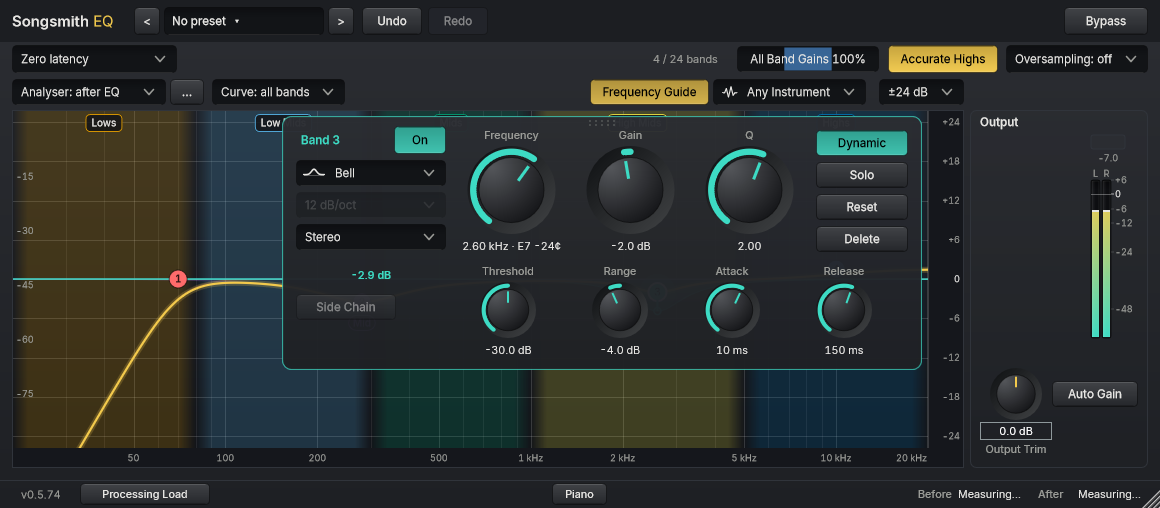
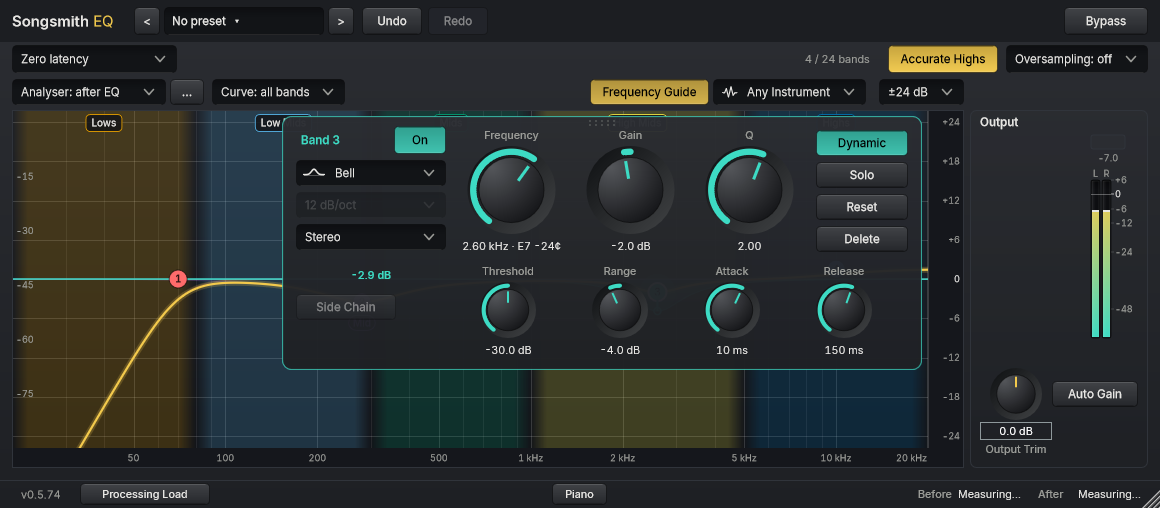
EQ: remove the Gain Scale control, Piano at the bottom middle everywhere (songsmithstudio#17)
The Gain Scale parameter stays so saved sessions sound the same.

Changed region(s): [[0.5586, 0.0886, 0.7759, 0.1476]]

diff --git a/eq/Tests/EQTests.cpp b/eq/Tests/EQTests.cpp
@@ -5134,7 +5134,7 @@ public:
             Songsmith::UI::Testing::checkGlobalBypass (*this, *ed, *p.apvts.getParameter (EQ::bypassId), "EQ at " + juce::String (s) + "x");
         }
 
-        beginTest ("Title bar reads name, preset, Undo, Redo, Bypass; Gain Scale stays reachable in the toolbox (SUI-18)");
+        beginTest ("Title bar reads name, preset, Undo, Redo, Bypass; the Gain Scale control is gone but a saved scale still shapes the sound (songsmithstudio#17)");
         for (float s : { 1.0f, 2.0f })
         {
             SongsmithEQAudioProcessor p;
@@ -5143,23 +5143,18 @@ public:
             auto ed = UiSizeTests::makeEditor (p, s, juce::roundToInt (1280 * s), juce::roundToInt (788 * s));
             Songsmith::UI::Testing::checkSuiteHeader (*this, *ed, context);
 
-            if (auto* eqEditor = dynamic_cast<SongsmithEQAudioProcessorEditor*> (ed.get()))
-            {
-                auto& scale = eqEditor->getScaleSlider();
-                expect (scale.isVisible() && scale.getY() > 42, context + ": the Scale control is out of the title bar and still visible");
-                expectWithinAbsoluteError (scale.getValue(), 150.0, 0.5, context + ": a saved non-default Gain Scale is kept, not reset to 100 %");
-                expectWithinAbsoluteError ((double) p.getGainScale(), 1.5, 0.01, context + ": and the sound still uses it");
+            // The parameter is never removed (sessions and automation keep their meaning), so a saved scale is still used.
+            expectWithinAbsoluteError ((double) p.getGainScale(), 1.5, 0.01, context + ": a saved non-default Gain Scale still shapes the sound");
+            expect (p.apvts.getParameter (EQ::gainScaleId) != nullptr, context + ": and the parameter still exists");
 
-                // EQ-41: the label says Gain Scale, typing works with or without the words, the help is plain.
-                expect (scale.getTextFromValue (100.0) == "All Band Gains 100%", context + ": reads All Band Gains 100%");
-                expect (scale.getTextFromValue (-100.0) == "All Band Gains -100%", context + ": negative end");
-                for (auto text : { "50", "50%", "All Band Gains 50%", "Gain Scale 50%" })
-                    expectWithinAbsoluteError (scale.getValueFromText (text), 50.0, 0.001, context + ": typing \"" + juce::String (text) + "\" sets 50");
-                expect (scale.getTooltip().startsWith ("All Band Gains: turns every band's boosts and cuts up or down together."), context + ": plain tooltip");
-                expect (scale.getTooltip().contains ("Double-click to return to 100%."), context + ": tooltip mentions reset");
-                const auto* editorBounds = ed.get();
-                expect (scale.getRight() <= editorBounds->getWidth() && scale.getWidth() > 60, context + ": fits inside the editor");
-            }
+            // No control in the window sets it: nothing in the editor is called Gain Scale or All Band Gains.
+            std::function<void (juce::Component&)> check = [&] (juce::Component& c)
+            {
+                expect (! c.getTitle().containsIgnoreCase ("gain scale") && ! c.getTitle().containsIgnoreCase ("all band gains"), context + ": no control named for it (" + c.getTitle() + ")");
+                for (auto* child : c.getChildren())
+                    check (*child);
+            };
+            check (*ed);
         }
     }
 };
@@ -6521,7 +6516,6 @@ public:
                 if (other != &os && other->isVisible() && other->getBottom() > os.getY() && other->getY() < os.getBottom()
                     && other->getX() < os.getX() && other->getWidth() < ed->getContent().getWidth() / 2)
                     expect (other->getRight() <= os.getX(), context + ": nothing in the row overlaps Oversampling");
-            expect (os.getRight() >= eqEditor->getScaleSlider().getRight(), context + ": Oversampling is the rightmost control of its row");
 
             // Changing the range is a presentation change only: no parameter, so no sound, moves.
             std::vector<float> before;
@@ -6550,7 +6544,6 @@ public:
             expect (button.isVisible() && button.getWidth() > 0, context + ": visible");
             expectEquals (button.getY(), os.getY(), context + ": same row as Oversampling");
             expect (button.getRight() < os.getX() && os.getX() - button.getRight() < 16, context + ": immediately left of Oversampling, which is the rightmost control of the row");
-            expect (os.getRight() >= eqEditor->getScaleSlider().getRight(), context + ": Oversampling is to the right of the All Band Gains control");
             expect (button.getToggleState(), context + ": on in a new instance");
             expect (button.getTooltip().startsWith ("Accurate highs:"), context + ": tooltip");
         }

diff --git a/eq/Source/PluginEditor.cpp b/eq/Source/PluginEditor.cpp
@@ -162,24 +162,6 @@ SongsmithEQAudioProcessorEditor::SongsmithEQAudioProcessorEditor (SongsmithEQAud
     Songsmith::UI::styleBypassButton (bypassButton);   // the suite's Bypass red
     content.addAndMakeVisible (bypassButton);
 
-    // Scale the whole curve (double-click: 100 %).
-    scaleAttachment = std::make_unique<juce::AudioProcessorValueTreeState::SliderAttachment> (
-        processor.apvts, EQ::gainScaleId, scaleSlider);
-    scaleSlider.textFromValueFunction = [] (double pct) { return "All Band Gains " + juce::String (juce::roundToInt (pct)) + "%"; };
-    scaleSlider.valueFromTextFunction = [] (const juce::String& t)
-    {
-        return t.retainCharacters ("-0123456789.").getDoubleValue();
-    };
-    scaleSlider.setDoubleClickReturnValue (true, 100.0);
-    scaleSlider.setTextBoxIsEditable (true);
-    scaleSlider.setColour (juce::Slider::trackColourId, EQColours::band (3));
-    scaleSlider.setColour (juce::Slider::textBoxTextColourId, EQColours::text);
-    scaleSlider.setTooltip ("All Band Gains: turns every band's boosts and cuts up or down together. It is not the graph's display range. 100% uses the values you set, "
-                            "0% flattens them, and negative values turn boosts into cuts. Low Cut, High Cut and Notch "
-                            "bands are not affected. Double-click to return to 100%.");
-    scaleSlider.updateText();
-    content.addAndMakeVisible (scaleSlider);
-
     autoGainAttachment = std::make_unique<juce::AudioProcessorValueTreeState::ButtonAttachment> (
         processor.apvts, EQ::autoGainId, autoGainButton);
     autoGainButton.setColour (juce::TextButton::buttonOnColourId, EQColours::totalCurve.withAlpha (0.85f));
@@ -536,13 +518,11 @@ void SongsmithEQAudioProcessorEditor::layoutContent()
         auto row = area.removeFromTop (rowHeight).reduced (margin, 3);
         phaseBox.setBounds (row.removeFromLeft (comboWidth (phaseBox)));
         row.removeFromLeft (gap);
-        // The Scale control (gain scale, a real sound parameter) now lives in the toolbox beside the other
-        // gain controls, and the band count sits next to it when there is room (both moved out of the header).
+        // The Gain Scale control was removed from the window (songsmithstudio#17); its parameter stays, so a session that saved a
+        // scale keeps the sound. The band count sits next to Accurate Highs when there is room.
         oversamplingBox.setBounds (row.removeFromRight (comboWidth (oversamplingBox)));   // songsmithstudio#17: the rightmost control of its row
         row.removeFromRight (gap);
         accurateHighsButton.setBounds (row.removeFromRight (buttonWidth ({ accurateHighsButton.getButtonText() })));   // right beside Oversampling, the setting it is the alternative to
-        row.removeFromRight (gap);
-        scaleSlider.setBounds (row.removeFromRight (barWidth ({ "All Band Gains -100%", "All Band Gains 200%" })));
         row.removeFromRight (gap);
         const int countWidth = (int) std::ceil (textWidth ("24 / 24 bands", EQColours::numbers (EQColours::Type::control))) + 8;
         const bool countFits = row.getWidth() >= countWidth + gap * 2;

diff --git a/eq/Source/PluginEditor.h b/eq/Source/PluginEditor.h
@@ -43,7 +43,6 @@ public:
     juce::ComboBox& getOversamplingBox() noexcept   { return oversamplingBox; }
     juce::ComboBox& getRangeBox() noexcept { return rangeBox; }         // the Graph Range, above the dB scale (songsmithstudio#17)
     juce::ComboBox& getGuideBox() noexcept { return guideBox; }         // the Frequency Guide's instrument
-    juce::Slider& getScaleSlider() noexcept  { return scaleSlider; }   // Gain Scale, in the toolbox (SUI-18)
     float getContentScale() const noexcept   { return contentScale; }   // design units -> window pixels
     float getLayoutStep() const noexcept     { return layoutStep; }
 
@@ -90,8 +89,6 @@ private:
     // songsmithstudio#16: the suite's Output panel (meter, compact Output Trim, Auto Gain) at the far right.
     Songsmith::UI::OutputPanel outputPanel { false };
     juce::Slider& outputSlider = outputPanel.getTrim();
-    juce::Slider scaleSlider { juce::Slider::LinearBar, juce::Slider::TextBoxLeft };
-    std::unique_ptr<juce::AudioProcessorValueTreeState::SliderAttachment> scaleAttachment;
     juce::TextButton bypassButton { "Bypass" }, accurateHighsButton { "Accurate Highs" };
     juce::TextButton guideButton { "Frequency Guide" };   // EQ-32: the listening regions behind the graph
     juce::ComboBox guideBox;                              // which instrument the guide is for

diff --git a/eq/Source/PluginProcessor.cpp b/eq/Source/PluginProcessor.cpp
@@ -255,7 +255,7 @@ juce::AudioProcessorValueTreeState::ParameterLayout SongsmithEQAudioProcessor::c
 
     // Scale the whole curve (v0.5): every gain band's dB gain x scale. 100 % = as set.
     layout.add (std::make_unique<juce::AudioParameterFloat> (
-        juce::ParameterID { EQ::gainScaleId, 6 }, "All Band Gains",
+        juce::ParameterID { EQ::gainScaleId, 6 }, "Gain Scale",
         juce::NormalisableRange<float> (EQ::minGainScale, EQ::maxGainScale, 0.1f), 100.0f,
         juce::AudioParameterFloatAttributes().withLabel ("%")));
 

diff --git a/docs/style-guide.md b/docs/style-guide.md
@@ -22,7 +22,7 @@ How every Songsmith plugin looks, so they read as one family. The code for all o
 
 **Standing UI rule: a widget belongs near the thing it affects.** Location is part of usability, not merely decoration. Place toggles and controls next to their graph, note strip, meter, readout or processing section so the connection is self-evident. Avoid moving a control to an unrelated global toolbar just to fill space. Group related controls, maintain the spatial relationship at minimum and maximum window sizes and at high DPI, and check both enabled and disabled states. If a control truly affects the entire plugin, a shared toolbar can be appropriate; explain exceptions.
 
-**EQ example:** the Piano toggle belongs at the **bottom-right of the interface beside the piano-note strip** it shows/hides, as required by [EQ-35](../eq/prompts/done/35-piano-footer.md). The Processing Load toggle sits at the **far left of the bottom status strip immediately beside its conditional CPU/latency values**, as required by [SUI-12](../shared/prompts/done/SUI-12-processing-load-footer.md). Consistent proximity takes precedence over arbitrary alignment or symmetry.
+**EQ example:** the Piano toggle belongs at the **bottom middle of the interface, centred in the bottom strip under the piano-note strip** it shows/hides (first placed at the bottom-right by [EQ-35](../eq/prompts/done/35-piano-footer.md), moved to the middle by songsmithstudio#17 so the Before and After loudness can keep the far right like every other plugin). The Processing Load toggle sits at the **far left of the bottom status strip immediately beside its conditional CPU/latency values**, as required by [SUI-12](../shared/prompts/done/SUI-12-processing-load-footer.md). Consistent proximity takes precedence over arbitrary alignment or symmetry.
 
 **Consistent global Bypass:** Place the Bypass button at the **top-right** of every editor, matching the established EQ/Maximiser layout. Unlike feature-local controls, this whole-plugin action has a predictable suite-wide position. When engaged, the button uses the same **#C9563C** red (the Analog Compressor's existing bypass colour); when not engaged it uses the normal neutral control style. The token is `Songsmith::UI::Colours::bypass` and every editor applies it with `Songsmith::UI::styleBypassButton`; the button is 84 design pixels wide in every plugin. Keep the position stable through scaling. Local toggles (band On/Off, Gain Reduction Off) never use this red. See [SUI-13](../shared/prompts/done/SUI-13-consistent-bypass.md).
 
@@ -107,7 +107,7 @@ The EQ and the maximiser share their accent today; a separate colour for one of 
 
 **Right-hand meters (SUI-23).** Every plugin has an **Output** level meter at the far right of its editor, and every plugin that turns the level down also has a labelled **Gain Reduction** bar beside it, laid out like the Songsmith Compressor (the reference). Use `Songsmith::UI::MeterColumn` (`shared/Source/SongsmithMeterColumn.h`): it holds the shared Output meter and the Gain Reduction bar in the suite's tubular look and red reduction colour, and `MeterColumn::boundsFor()` and `contentRightEdge()` place it and keep the plugin's own controls clear. Equalisers show Output only, never a made-up Gain Reduction. Output is sample peak, not true peak. A plugin's own character meter (needle, lamps) may stay on its faceplate. `test/suite-meters.test.mjs` fails if a plugin lacks the meters. See [docs/meter-audit-sui-23.md](meter-audit-sui-23.md).
 
-Every editor has the same strip along the bottom, from the shared library (`shared/Source/SongsmithDiagnostics.h`, class `Songsmith::Diagnostics::Bar`). It is 28 px tall at 100 %, inside the scaled editor, with a rule above it. Text is `Type::control` (Regular, tabular figures). The **Processing Load** switch (a bevelled toggle button) is at the **far left**. Only while it is on, one readout follows directly to its right: `CPU 0.35%, Latency 0.0ms (0 samples)`. The right end is free for a plugin's own control that belongs beside what it affects: Songsmith EQ puts its **Piano** toggle there (`Bar::setTrailingControl`), which stays right-aligned whether or not the readout is showing. New plugins add the strip the same way and put `Songsmith::Diagnostics::LoadMeter loadMeter;` in their processor.
+Every editor has the same strip along the bottom, from the shared library (`shared/Source/SongsmithDiagnostics.h`, class `Songsmith::Diagnostics::Bar`). It is 28 px tall at 100 %, inside the scaled editor, with a rule above it. Text is `Type::control` (Regular, tabular figures). The **Processing Load** switch (a bevelled toggle button) is at the **far left**. Only while it is on, one readout follows directly to its right: `CPU 0.35%, Latency 0.0ms (0 samples)`. The right end is free for a plugin's own control that belongs beside what it affects: A plugin's own control that is not about loudness can instead be centred in the strip (`Bar::setCentreControl`): Songsmith EQ centres its **Piano** toggle there, and the Before and After loudness keeps the far right. The centred control stays centred whether or not the readout is showing; the readout stops short of it. New plugins add the strip the same way and put `Songsmith::Diagnostics::LoadMeter loadMeter;` in their processor.
 
 - **Latency** is what the plugin reports to the host, in milliseconds at the current sample rate and in samples ("1.8ms (84 samples)", "1 sample" for one). It is shown only inside the readout, so it appears when Processing Load is on. It follows mode and sample-rate changes. Tooltip: "The delay this plugin adds. Your recording software may compensate for it."
 - **Processing Load** is off by default and per instance. It estimates the share of each block's time budget that this instance uses, smoothed over about half a second, with enough digits for light loads ("0.07%", "3.2%", "14%"; a real zero reads "0%"). When the switch is off the readout is hidden completely. When no block has been measured in the last second (for example when the host has stopped) it reads "CPU Unavailable" and still shows the latency; it never shows a made-up zero. "CPU" is the one abbreviation allowed, and only in this readout (`Wording::findBanned`). Tooltip: it describes this plugin, and varies with the computer, the settings and the buffer size.

diff --git a/eq/prompts/README.md b/eq/prompts/README.md
@@ -16,7 +16,7 @@ References use the stable **EQ-##** IDs (for example EQ-27 means prompt 27 in th
 | 38–40 (in [`done/`](done/)) | Merged into `main` on 7 Nov 2026 and shipped in 0.5.1: [EQ-38 Frequency Guide instrument icons](done/38-frequency-guide-instrument-icons.md) (#116), [EQ-39 stereo meter and latched clipping warning](done/39-stereo-meter-clip-latch.md) (#117), [EQ-40 organise Starting Points](done/40-organise-starting-points.md) (#118). Not yet verified in a DAW. |
 | [37 Draggable band panel and Dynamic visibility](done/37-draggable-band-panel.md) | **Done** in #87: drag the floating band controls by their background; the panel always stays inside the graph and moves just enough when Dynamic opens. Shipped in 1.3.0 |
 | [36 Disabled Dynamic tooltip](done/36-dynamic-disabled-tooltip.md) | **Done** in #78: the greyed-out Dynamic button explains why and lists Bell, Low Shelf and High Shelf, including the Linear phase cases. Shipped in 1.2.0 |
-| [35 Piano footer placement](done/35-piano-footer.md) | **Done** in #81: Piano button pinned to the far right of the bottom strip beside the piano-note strip, with [SUI-12](../../shared/prompts/done/SUI-12-processing-load-footer.md). Shipped in 1.2.0 |
+| [35 Piano footer placement](done/35-piano-footer.md) | **Done** in #81: Piano button pinned to the far right of the bottom strip (since moved to the bottom middle by songsmithstudio#17), with [SUI-12](../../shared/prompts/done/SUI-12-processing-load-footer.md). Shipped in 1.2.0 |
 | [33 filter shape icons](done/33-filter-shape-icons.md) | **Done** in #80: a response picture beside each filter type in the band panel and the right-click menu. Shipped in 1.2.0 |
 | [34 Linear Phase tooltip](done/34-linear-phase-tooltip.md) | **Done** in #79: the processing-mode selector explains when to try Linear phase, why it adds delay and why Zero latency suits recording. Shipped in 1.2.0 (UI milestone) |
 | [41 Gain Scale label](done/41-gain-scale-main-toolbox.md) | To do ([#203](https://github.com/tonygward/audio-plugins/issues/203)). The move into the toolbox already shipped with SUI-18 in 0.5.10; what is left is the label and tooltip |

diff --git a/CHANGELOG.md b/CHANGELOG.md
@@ -5,7 +5,7 @@ Every Songsmith plugin, installer and release shares one version number, kept in
 
 ## Unreleased
 
-- **Songsmith EQ: a tidier layout.** The **Piano** button is now centred in the strip along the bottom, and the Before and After loudness keeps the far right, where it sits in every other plugin. **Oversampling** is the rightmost control in its row, with **Accurate Highs** right beside it. The **Graph Range** dropdown (how many dB the graph shows) now sits directly above the dB scale it changes, and its tooltip says it changes only what you see. The **Frequency Guide** instrument dropdown is wide enough for its longest name. The control that was called **Gain Scale** is now called **All Band Gains**, because it scales the boosts and cuts of every band together; it is a real sound control and keeps working exactly as before. Nothing about the sound changes. The smallest window is a little wider (1160 instead of 980 pixels) to fit the Output panel; a window saved narrower than that opens at the new minimum.
+- **Songsmith EQ: a tidier layout.** The **Piano** button is now centred in the strip along the bottom (the bottom middle), and the Before and After loudness keeps the far right, where it sits in every other plugin. **Oversampling** is the rightmost control in its row, with **Accurate Highs** right beside it. The **Graph Range** dropdown (how many dB the graph shows) now sits directly above the dB scale it changes, and its tooltip says it changes only what you see. The **Frequency Guide** instrument dropdown is wide enough for its longest name. The **Gain Scale** bar, which scaled the boosts and cuts of every band together and looked like a second band gain, has been removed from the window. A project that saved a Gain Scale other than 100% sounds exactly as before; new projects start at 100%. The smallest window is a little wider (1160 instead of 980 pixels) to fit the Output panel; a window saved narrower than that opens at the new minimum.
 
 ## 0.5.74
 

diff --git a/shared/prompts/done/SUI-12-processing-load-footer.md b/shared/prompts/done/SUI-12-processing-load-footer.md
@@ -16,7 +16,7 @@ Replace the current left-hand Latency value + far-right Processing Load switch/r
 4. The order and wording are **CPU {load}%, Latency {milliseconds}ms ({samples} samples)**. Use **one decimal** for milliseconds, e.g. `0.0ms`; format CPU intelligently so small non-zero loads aren't rounded misleadingly to zero (e.g. `0.35%`), while an actual zero may read `0%`. Handle a single sample grammatically if appropriate.
 5. When processing is stopped or there is no valid measurement, show `CPU Unavailable` rather than a fabricated zero; still display accurate latency. Keep units and value updates robust at all supported sample rates and buffer sizes.
 6. Remove the old always-visible left-hand Latency label/value and the old right-aligned Processing Load metric. Do not duplicate the diagnostics elsewhere.
-7. Keep the shared UI look (Inter type roles, bevel, accessible tooltip and keyboard focus), crisp at Retina and scaled sizes, and adapt for each editor minimum width without clipping. The right end of the strip remains available for **plugin-specific controls**, especially EQ's Piano button (EQ-35).
+7. Keep the shared UI look (Inter type roles, bevel, accessible tooltip and keyboard focus), crisp at Retina and scaled sizes, and adapt for each editor minimum width without clipping. The right end of the strip remains available for **plugin-specific controls**, especially EQ's Piano button (EQ-35; since moved to the middle of the strip by songsmithstudio#17).
 8. In the shared wording policy, **allow the specific acronym `CPU` for this diagnostics readout**, despite the existing general acronym ban. Prefer a narrow exception to globally relaxing wording validation.
 9. Preserve SUI-11's real-time safety, load-measurement lifecycle, CPU overhead limits, atomics and host latency reporting. No changes to audio processing algorithms or parameter IDs.
 

diff --git a/CLAUDE.md b/CLAUDE.md
@@ -43,7 +43,7 @@ Prompts: each plugin keeps its own in `<plugin>/prompts/` (`eq/prompts/` is the 
 
 ### 4. Controls belong beside what they affect
 - **Place each UI widget near the feature, graph, value, meter, or region it controls.** Spatial proximity should make its effect obvious without requiring the user to search the interface. Do not put controls into a generic toolbar simply because it has spare space.
-- Example: Songsmith EQ's **Piano** toggle belongs at the **bottom-right**, beside the piano-note strip along the bottom of the EQ graph, rather than in the top toolbar. The Processing Load toggle belongs on the left of the shared bottom diagnostics strip, directly beside its CPU/latency readout.
+- Example: Songsmith EQ's **Piano** toggle belongs at the **bottom middle**, centred in the shared bottom strip directly under the piano-note strip along the bottom of the EQ graph, rather than in the top toolbar (the Before and After loudness keeps the far right, as in every plugin). The Processing Load toggle belongs on the left of the shared bottom diagnostics strip, directly beside its CPU/latency readout.
 - Group related controls together, preserve this relationship across resize/DPI changes, and prefer a local control or contextual action over a distant global toggle. Document and justify any unavoidable exception in the relevant prompt/PR.
 - **Global Bypass is the suite-wide exception with a fixed, predictable position:** top-right of every editor (as on EQ and Maximiser), using the same pressed/on red **#C9563C** currently used by Analog Compressor. Red means processing is bypassed, not enabled. Use the shared bypass colour token; do not substitute individual plugin accent colours. See SUI-13.
 - Validate location as well as appearance and function in editor UI tests and before/after screenshots. See `docs/style-guide.md#control-proximity`.

diff --git a/TECHNICAL.md b/TECHNICAL.md
@@ -14,7 +14,7 @@ Every plugin shares one look: the same typeface, type sizes and title, from the 
 
 ### Latency and Processing Load
 
-Every editor has a strip along the bottom, the same in every plugin: the **Processing Load** switch at the far left and, only while it is on, one readout beside it such as `CPU 0.35%, Latency 0.0ms (0 samples)`. In Songsmith EQ the **Piano** toggle sits at the far right of the same strip, beside the piano-note strip it controls (see the [style guide](docs/style-guide.md#latency-and-processing-load-strip)):
+Every editor has a strip along the bottom, the same in every plugin: the **Processing Load** switch at the far left and, only while it is on, one readout beside it such as `CPU 0.35%, Latency 0.0ms (0 samples)`. In Songsmith EQ the **Piano** toggle sits in the middle of the same strip, under the piano-note strip it controls, and the Before and After loudness keeps the far right (see the [style guide](docs/style-guide.md#latency-and-processing-load-strip)):
 
 - **Latency:** the delay the plugin reports to your recording software, in milliseconds at the current sample rate and in samples, for example "1.8ms (84 samples)". It updates when you change a mode that adds delay (linear phase, oversampling) or when the sample rate changes.
 - **Processing Load:** off until you switch it on. It shows how much of the time available for each block of audio this plugin uses, for example "3.2%". It describes this plugin only, and varies with the computer, the settings and the buffer size. It says "CPU Unavailable" while no audio is being processed.

diff --git a/eq/README.md b/eq/README.md
@@ -6,7 +6,7 @@ What the wheel changes depends on the filter type of the band under the pointer 
 | Band | The wheel changes | Step |
 |---|---|---|
 | High Pass, Low Pass (Low Cut, High Cut) | the slope | one supported value a notch: 6, 12, 18, 24, 36, 48 dB/oct (stops at both ends) |
-| Bell, Low Shelf, High Shelf | the gain | 0.5 dB a notch, 0.1 dB with Shift, in the gain you see (it follows All Band Gains); stops at the limits |
+| Bell, Low Shelf, High Shelf | the gain | 0.5 dB a notch, 0.1 dB with Shift, in the gain you see (it follows a Gain Scale saved in an older session); stops at the limits |
 | Notch | the Q (its only adjustable shape) | as before |
 
 Wheel up makes the slope steeper or the gain higher; wheel down the opposite. Frequency, on/off, the Q of a Bell or shelf and every other band are never touched. A touchpad's many small movements add up to one step; turning back starts again. One burst of wheel is one Undo step, and the change is a normal parameter change, so host automation, presets and the graph follow it. Tests: `MouseWheelTests` in `Tests/EQTests.cpp`. The on-screen hint reads "Mouse wheel: slope of a High Pass or Low Pass, gain of a Bell or shelf."

diff --git a/eq/prompts/done/35-piano-footer.md b/eq/prompts/done/35-piano-footer.md
@@ -1,5 +1,7 @@
 # EQ-35 — Move Piano button to far right of EQ footer
 
+> **Superseded by songsmithstudio#17:** the Piano button is now centred in the bottom strip (the bottom middle), so the Before and After loudness can keep the far right like every other plugin. This prompt is kept as the record of what was built then.
+
 **Status:** Done in #81  
 **Model:** Sonnet  
 **Scope:** Songsmith EQ only.  
